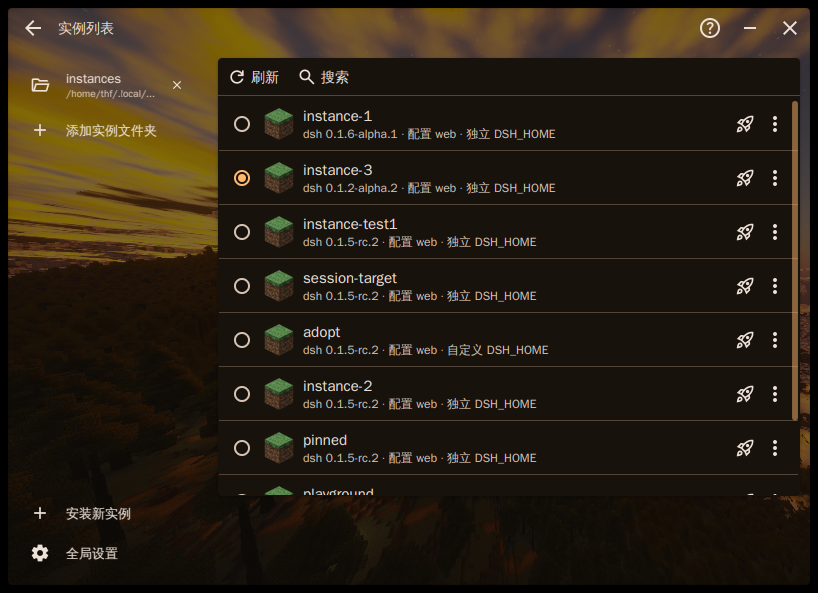
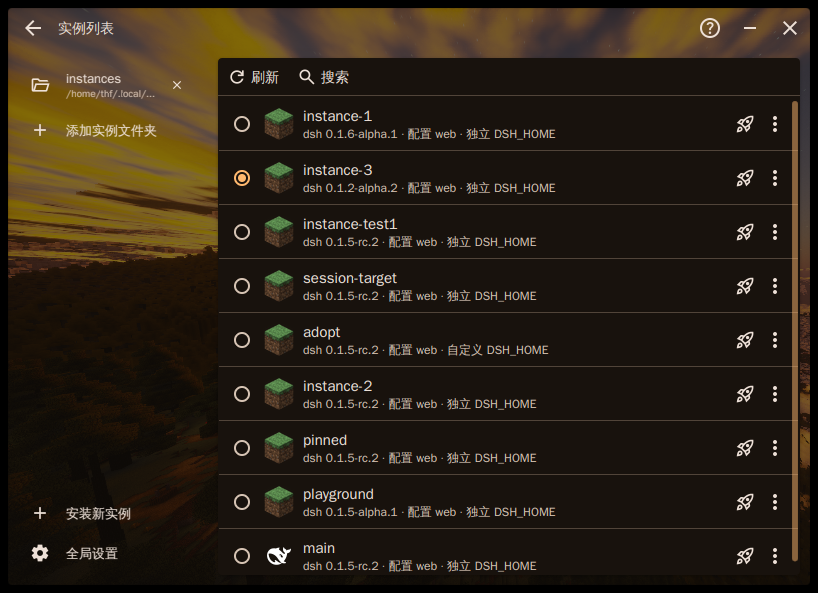
Let the lists grow with the window
The instance list and the download list kept their computed height instead of
filling the page, so a taller window left the card ending partway down it.

The cause is a property set on the wrong node. ComponentList wraps each child in
an ItemWrapper before laying it out, so `VBox.setVgrow(child, ALWAYS)` sets the
property on a node the box does not lay out and does nothing. The box offers its
own method for this, which records the priority on the child and applies it to
the wrapper it builds.

Verified by resizing: at a window height of 593 the card's bottom edge falls 19
pixels above it, and at 760 it also falls 19 above — it follows the window rather
than the content.

diff --git a/src/main/java/org/jackhuang/hmcl/ui/dsh/DirectoryListItem.java b/src/main/java/org/jackhuang/hmcl/ui/dsh/DirectoryListItem.java
@@ -1,0 +1,112 @@
+/*
+ * HMCL-DSH
+ * Copyright (C) 2026  HMCL-DSH contributors
+ *
+ * This program is free software: you can redistribute it and/or modify
+ * it under the terms of the GNU General Public License as published by
+ * the Free Software Foundation, either version 3 of the License, or
+ * (at your option) any later version.
+ *
+ * This program is distributed in the hope that it will be useful,
+ * but WITHOUT ANY WARRANTY; without even the implied warranty of
+ * MERCHANTABILITY or FITNESS FOR A PARTICULAR PURPOSE.  See the
+ * GNU General Public License for more details.
+ *
+ * You should have received a copy of the GNU General Public License
+ * along with this program.  If not, see <https://www.gnu.org/licenses/>.
+ */
+package org.jackhuang.hmcl.ui.dsh;
+
+import com.jfoenix.controls.JFXButton;
+import javafx.css.PseudoClass;
+import javafx.geometry.Insets;
+import javafx.geometry.Pos;
+import javafx.scene.control.RadioButton;
+import javafx.scene.layout.BorderPane;
+import javafx.scene.layout.HBox;
+import org.jackhuang.hmcl.setting.GameDirectory;
+import org.jackhuang.hmcl.ui.FXUtils;
+import org.jackhuang.hmcl.ui.SVG;
+import org.jackhuang.hmcl.ui.SVGContainer;
+import org.jackhuang.hmcl.ui.construct.RipplerContainer;
+import org.jackhuang.hmcl.ui.construct.TwoLineListItem;
+import org.jetbrains.annotations.NotNullByDefault;
+import org.jetbrains.annotations.Nullable;
+
+import java.util.function.Consumer;
+
+/// One folder in the instance list's sidebar.
+///
+/// The node structure and style classes are the original's, because its
+/// stylesheet is the one this project ships and its rules select this shape
+/// exactly:
+///
+/// ```
+/// .game-directory-list-item > .rippler-container > BorderPane { padding: 8 0 8 16 }
+/// ... > .two-line-list-item > .first-line > .title { font-size: 13 }
+/// ... > .two-line-list-item > HBox > .subtitle { font-size: 10 }
+/// ```
+///
+/// A row built any other way gets none of that — a plain list item carries the
+/// box's default sizes, which is a difference of a few pixels in two places and
+/// therefore one that looks almost right.
+@NotNullByDefault
+public final class DirectoryListItem extends RadioButton {
+    /// Marks the row whose folder the list is showing.
+    private static final PseudoClass SELECTED = PseudoClass.getPseudoClass("selected");
+
+    /// The folder icon, which fills in when the row is selected.
+    private final SVGContainer icon;
+
+    /// The name and path.
+    private final TwoLineListItem content = new TwoLineListItem();
+
+    /// Creates a row.
+    ///
+    /// @param directory the folder to show
+    /// @param onSelect  run when the row is clicked
+    /// @param onRemove  run when the remove button is pressed
+    public DirectoryListItem(GameDirectory directory,
+                             Consumer<GameDirectory> onSelect,
+                             @Nullable Consumer<GameDirectory> onRemove) {
+        getStyleClass().setAll("game-directory-list-item", "navigation-drawer-item");
+
+        BorderPane root = new BorderPane();
+        root.setPickOnBounds(false);
+
+        SVGContainer left = new SVGContainer(SVG.FOLDER, 20);
+        left.setMouseTransparent(true);
+        BorderPane.setMargin(left, new Insets(0, 6, 0, 6));
+        BorderPane.setAlignment(left, Pos.CENTER_LEFT);
+        root.setLeft(left);
+        this.icon = left;
+
+        content.setPickOnBounds(false);
+        BorderPane.setAlignment(content, Pos.CENTER);
+        content.setTitle(directory.displayName());
+        content.setSubtitle(directory.path());
+        root.setCenter(content);
+
+        HBox right = new HBox();
+        right.setAlignment(Pos.CENTER_RIGHT);
+        if (onRemove != null) {
+            JFXButton remove = FXUtils.newToggleButton4(SVG.CLOSE, 14);
+            remove.setOnAction(event -> onRemove.accept(directory));
+            BorderPane.setAlignment(remove, Pos.CENTER);
+            right.getChildren().add(remove);
+        }
+        root.setRight(right);
+
+        FXUtils.onClicked(this, () -> onSelect.accept(directory));
+
+        FXUtils.onChangeAndOperate(selectedProperty(), active -> {
+            pseudoClassStateChanged(SELECTED, active);
+            SVG target = active ? SVG.FOLDER_FILL : SVG.FOLDER;
+            if (icon.getIcon() != target) {
+                icon.setIcon(target);
+            }
+        });
+
+        getChildren().setAll(new RipplerContainer(root));
+    }
+}

diff --git a/src/main/java/org/jackhuang/hmcl/ui/dsh/InstancesPage.java b/src/main/java/org/jackhuang/hmcl/ui/dsh/InstancesPage.java
@@ -145,7 +145,10 @@ public final class InstancesPage extends DecoratorAnimatedPage implements Decora
         root.getStyleClass().add("no-padding");
         root.getContent().add(buildToolbar());
         root.getContent().add(instanceList);
-        VBox.setVgrow(instanceList, Priority.ALWAYS);
+        // ComponentList wraps its children, so a VGrow set on the child lands on a
+        // node the box does not lay out and does nothing. The box reads this
+        // property off the child and applies it to the wrapper it builds.
+        ComponentList.setVgrow(instanceList, Priority.ALWAYS);
         pane.getChildren().setAll(root);
 
         setCenter(pane);

diff --git a/src/main/java/org/jackhuang/hmcl/ui/dsh/DownloadPage.java b/src/main/java/org/jackhuang/hmcl/ui/dsh/DownloadPage.java
@@ -123,7 +123,8 @@ public final class DownloadPage extends DecoratorAnimatedPage implements Decorat
         ComponentList root = new ComponentList();
         root.getStyleClass().add("no-padding");
         root.getContent().add(releaseList);
-        VBox.setVgrow(releaseList, Priority.ALWAYS);
+        // See the note on the instance list: the box applies this to its own wrapper.
+        ComponentList.setVgrow(releaseList, Priority.ALWAYS);
         pane.getChildren().setAll(root);
 
         Node toolbar = buildToolbar();

diff --git a/CONTRIBUTING.md b/CONTRIBUTING.md
@@ -248,6 +248,23 @@ ComponentList.add(child)
 界面里所有颜色都会随窗口背后是什么而变化 —— 这种问题在截图上不明显，
 要把两个窗口的同一区域**采样成数值**才看得出来。
 
+### ComponentList 的子项要用它自己的 setVgrow
+
+`ComponentList` 会把每个子项**包进一个 `ItemWrapper`** 再放进 VBox。
+所以在子项上写 `VBox.setVgrow(child, ALWAYS)` 是**无效的** ——
+VGrow 设在了盒子并不直接布局的那个节点上。
+
+原版为此提供了静态方法：
+
+```java
+ComponentList.setVgrow(node, Priority.ALWAYS);
+// 内部：node.getProperties().put("ComponentList.vgrow", priority);
+// 建 wrapper 时再读出这个属性并 VBox.setVgrow(wrapper, priority)
+```
+
+**症状**：列表不随窗口高度伸展，看起来像「高度被固定了」。
+判定方法：把窗口拉高，看卡片下边界是否跟着移动。
+
 ### 工具的固定高度：别给容器再加内边距
 
 `.jfx-tool-bar-button` 自带**固定高度**：
